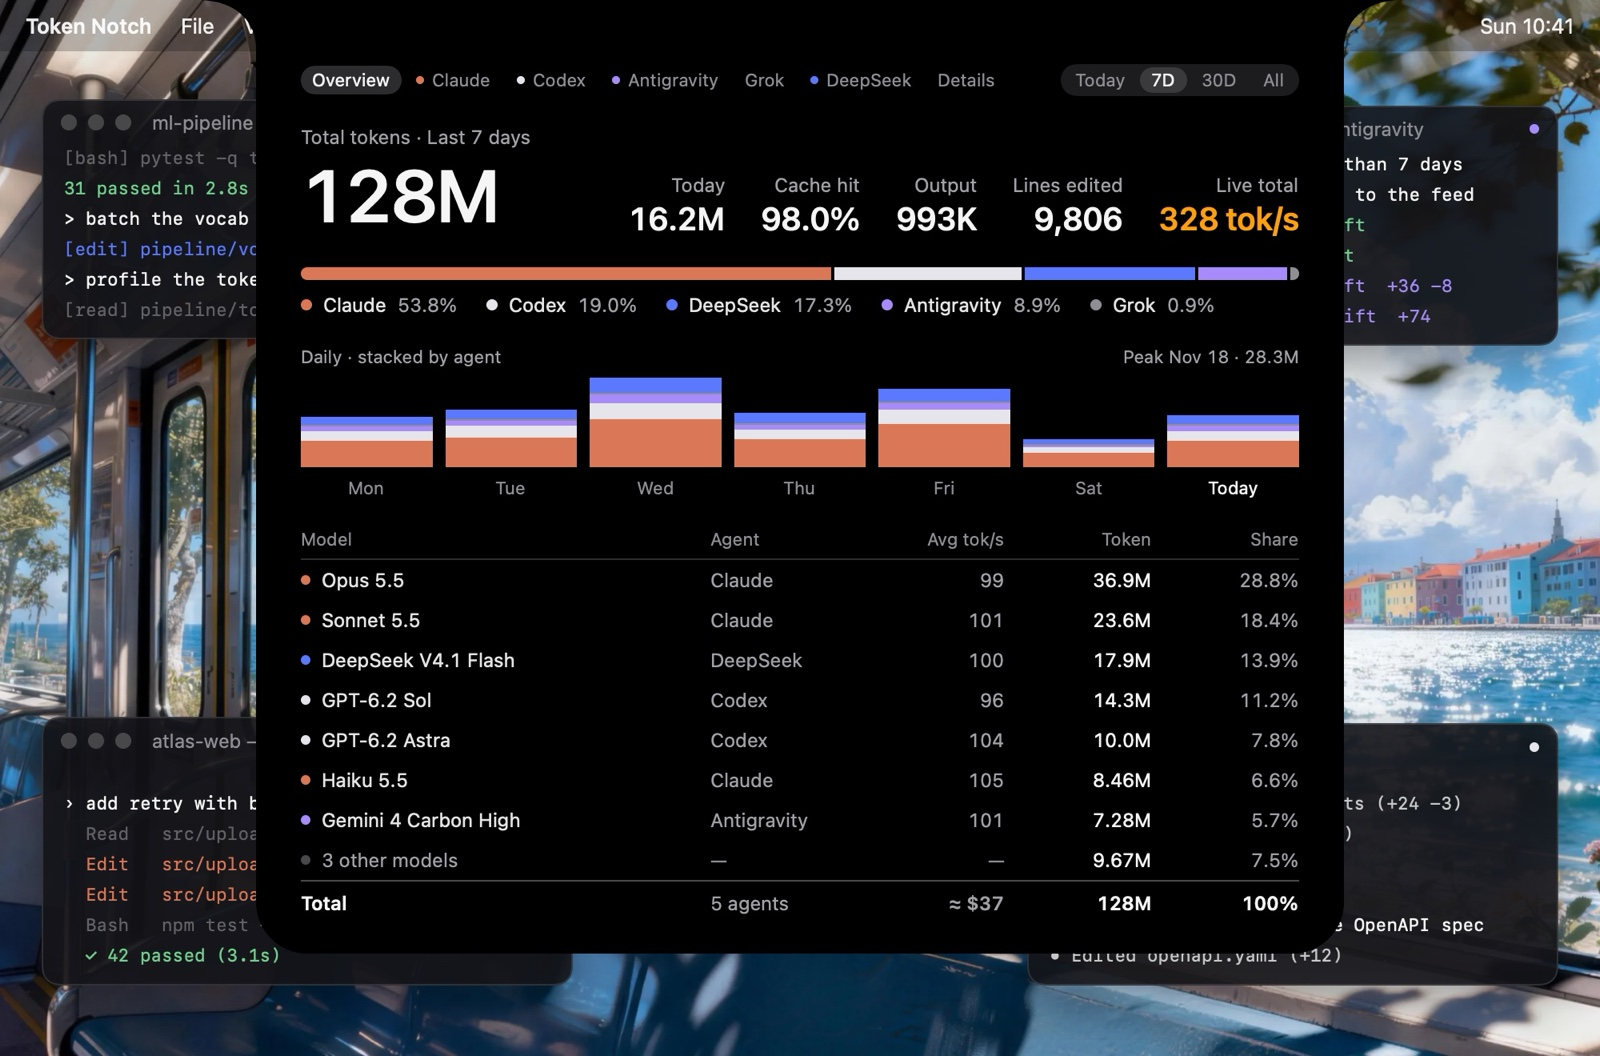
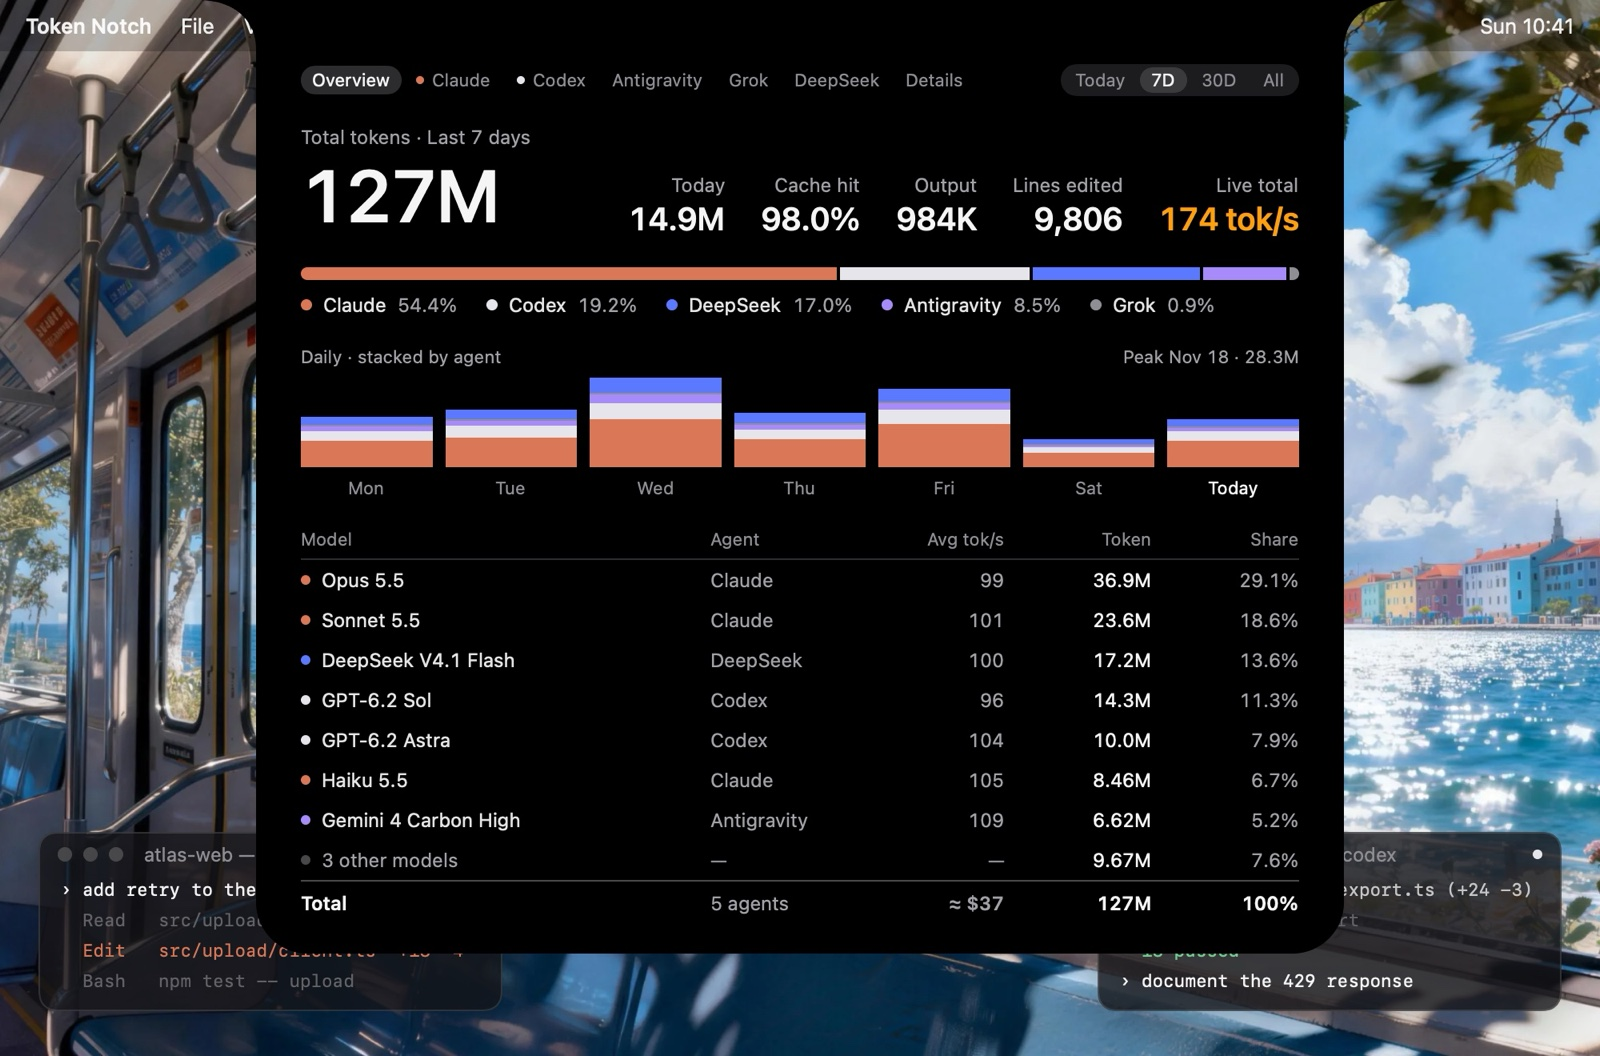
demo: agent 窗口收敛成底部两个小窗，GIF 画质拉满
四个窗口围着刘海，抢了主角的戏。

- 只留 Claude、Codex 两个窗口，贴在画面底部两角；缩小到 4 行、半透明、滚动放慢
- 演示数据和站点的在跑 agent 改回这两个，和窗口对应
- GIF 改成原生 2 倍分辨率（2000px 宽，不缩放）、30fps、256 色，逐帧图片的 JPEG 质量提到 0.98

diff --git a/Sources/TokenNotch/DemoDesktop.swift b/Sources/TokenNotch/DemoDesktop.swift
@@ -2,8 +2,8 @@ import AppKit
 import SwiftUI
 import TokenCore
 
-/// 演示画面里桌面上的几个 agent 窗口：让人一眼看出刘海里的数字是这些 agent 跑出来的。
-/// 窗口里的内容全是虚构的；每隔一小会儿往下滚一行。
+/// 演示画面里桌面上的 agent 窗口：交代一下刘海里的数字是哪来的。它们是背景，主角是刘海，
+/// 所以只有两个、个头小、半透明、滚得慢。窗口里的内容全是虚构的。
 @MainActor
 enum DemoDesktop {
     enum Tone { case prompt, dim, edit, ok, plain }
@@ -16,54 +16,32 @@ enum DemoDesktop {
         var lines: [(Tone, String)]
     }
 
-    static let visibleLines = 6
-    /// 每隔多久滚一行
-    static let stepEvery = 0.42
+    static let visibleLines = 4
+    /// 每隔多久滚一行。窗口只是背景，滚得慢一点，不和刘海抢注意力
+    static let stepEvery = 1.3
     /// 窗口四周留给阴影的边
-    static let margin: CGFloat = 34
+    static let margin: CGFloat = 30
 
+    /// 只放两个小窗口，贴在画面底部两角：正好是两翼轮播的那两个 agent。
     static let windows: [Window] = [
-        Window(title: "atlas-web — claude", agent: .claude, frame: CGRect(x: 26, y: 448, width: 332, height: 168), lines: [
-            (.prompt, "› add retry with backoff to the uploader"),
+        Window(title: "atlas-web — claude", agent: .claude, frame: CGRect(x: 24, y: 520, width: 290, height: 112), lines: [
+            (.prompt, "› add retry to the uploader"),
             (.dim, "  Read   src/upload/client.ts"),
             (.edit, "  Edit   src/upload/client.ts  +18 −4"),
-            (.edit, "  Edit   src/upload/retry.ts   +41"),
             (.dim, "  Bash   npm test -- upload"),
             (.ok, "  ✓ 42 passed (3.1s)"),
             (.prompt, "› now cover the timeout path"),
-            (.dim, "  Read   src/upload/retry.test.ts"),
-            (.edit, "  Edit   src/upload/retry.test.ts  +27 −2"),
+            (.edit, "  Edit   src/upload/retry.test.ts  +27"),
             (.ok, "  ✓ 45 passed (3.4s)"),
         ]),
-        Window(title: "api-gateway — codex", agent: .codex, frame: CGRect(x: 642, y: 452, width: 332, height: 164), lines: [
+        Window(title: "api-gateway — codex", agent: .codex, frame: CGRect(x: 686, y: 520, width: 290, height: 112), lines: [
             (.prompt, "› rate-limit the /export endpoint"),
             (.dim, "• Ran rg \"export\" src/routes"),
             (.plain, "• Edited src/routes/export.ts (+24 −3)"),
-            (.plain, "• Edited src/limits.ts (+31)"),
             (.dim, "• Ran pnpm test export"),
             (.ok, "  18 passed"),
-            (.prompt, "› add a 429 response to the OpenAPI spec"),
+            (.prompt, "› document the 429 response"),
             (.plain, "• Edited openapi.yaml (+12)"),
-        ]),
-        Window(title: "ml-pipeline — dsh", agent: .deepseek, frame: CGRect(x: 26, y: 62, width: 300, height: 150), lines: [
-            (.prompt, "> profile the tokenizer stage"),
-            (.dim, "[read] pipeline/tokenize.py"),
-            (.dim, "[bash] python -m cProfile -s cumtime"),
-            (.edit, "[edit] pipeline/tokenize.py +12 −9"),
-            (.dim, "[bash] pytest -q tests/tokenize"),
-            (.ok, "31 passed in 2.8s"),
-            (.prompt, "> batch the vocab lookups"),
-            (.edit, "[edit] pipeline/vocab.py +22 −15"),
-        ]),
-        Window(title: "ios-client — Antigravity", agent: .antigravity, frame: CGRect(x: 690, y: 66, width: 284, height: 150), lines: [
-            (.prompt, "Add an offline cache to the feed"),
-            (.ok, "✓ Read FeedStore.swift"),
-            (.ok, "✓ Read FeedView.swift"),
-            (.edit, "✓ Edit FeedStore.swift  +36 −8"),
-            (.edit, "✓ Write FeedCache.swift  +74"),
-            (.dim, "● Running xcodebuild test"),
-            (.ok, "✓ 23 tests passed"),
-            (.prompt, "Evict entries older than 7 days"),
         ]),
     ]
 
@@ -85,7 +63,7 @@ enum DemoDesktop {
         zip(windows, states).enumerated().compactMap { i, pair in
             let (w, images) = pair
             guard !images.isEmpty else { return nil }
-            let step = Int(t / stepEvery + Double(i) * 0.37) + visibleLines - 1 + i * 2
+            let step = Int(t / stepEvery + Double(i) * 0.5) + visibleLines - 1 + i * 2
             return (images[step % images.count], w.frame.insetBy(dx: -margin, dy: -margin))
         }
     }
@@ -98,13 +76,13 @@ private struct DemoWindowView: View {
     var body: some View {
         VStack(spacing: 0) {
             HStack(spacing: 7) {
-                ForEach(0..<3, id: \.self) { _ in Circle().fill(Palette.divider).frame(width: 10, height: 10) }
+                ForEach(0..<3, id: \.self) { _ in Circle().fill(Palette.divider).frame(width: 9, height: 9) }
                 Text(window.title).font(.system(size: 12)).foregroundStyle(Palette.text3).padding(.leading, 6)
                 Spacer()
                 Circle().fill(Palette.agent(window.agent)).frame(width: 6, height: 6)
             }
             .padding(.horizontal, 12)
-            .frame(height: 30)
+            .frame(height: 28)
             VStack(alignment: .leading, spacing: 5) {
                 ForEach(Array(lines.enumerated()), id: \.offset) { _, line in
                     Text(line.1)
@@ -118,9 +96,9 @@ private struct DemoWindowView: View {
             .frame(maxWidth: .infinity, maxHeight: .infinity, alignment: .bottomLeading)
         }
         .frame(width: window.frame.width, height: window.frame.height)
-        .background(RoundedRectangle(cornerRadius: 11, style: .continuous).fill(Color(red: 0.08, green: 0.08, blue: 0.095).opacity(0.9)))
+        .background(RoundedRectangle(cornerRadius: 11, style: .continuous).fill(Color(red: 0.08, green: 0.08, blue: 0.095).opacity(0.78)))
         .overlay(RoundedRectangle(cornerRadius: 11, style: .continuous).strokeBorder(Color.white.opacity(0.12), lineWidth: 1))
-        .shadow(color: .black.opacity(0.4), radius: 16, y: 10)
+        .shadow(color: .black.opacity(0.28), radius: 14, y: 8)
         .environment(\.colorScheme, .dark)
     }
 

diff --git a/site/app.js b/site/app.js
@@ -89,7 +89,7 @@ const AGENTS = [
 ];
 const AGENT = Object.fromEntries(AGENTS.map(a => [a.id, a]));
 const PROJECTS = ['atlas-web', 'token-notch', 'ml-pipeline', 'api-gateway', 'ios-client', 'docs-site', 'infra', 'design-tokens', 'billing-svc', 'cli-tools', 'landing'];
-const LIVE = { claude: 128, codex: 46, deepseek: 96, antigravity: 58 };
+const LIVE = { claude: 128, codex: 46 };
 const DAYS = 30;
 
 const days = (() => {
@@ -394,24 +394,17 @@ function scale() {
 }
 new ResizeObserver(scale).observe(wrap);
 
-// 桌面上的几个 agent 窗口（内容是虚构的），和演示视频里的一致。类名：u 提示、d 次要、e 编辑、g 通过、p 普通
+// 桌面底部两角的 agent 窗口（内容是虚构的），和演示视频里的一致；它们只是背景，所以小、淡、滚得慢。
+// 类名：u 提示、d 次要、e 编辑、g 通过、p 普通
 const TERMS = [
-  { id: 'claude', title: 'atlas-web — claude', keep: 6, lines: [
-    ['u', '› add retry with backoff to the uploader'], ['d', '  Read   src/upload/client.ts'], ['e', '  Edit   src/upload/client.ts  +18 −4'],
-    ['e', '  Edit   src/upload/retry.ts   +41'], ['d', '  Bash   npm test -- upload'], ['g', '  ✓ 42 passed (3.1s)'],
-    ['u', '› now cover the timeout path'], ['d', '  Read   src/upload/retry.test.ts'], ['e', '  Edit   src/upload/retry.test.ts  +27 −2'], ['g', '  ✓ 45 passed (3.4s)']] },
-  { id: 'codex', title: 'api-gateway — codex', keep: 5, lines: [
+  { id: 'claude', title: 'atlas-web — claude', keep: 4, lines: [
+    ['u', '› add retry to the uploader'], ['d', '  Read   src/upload/client.ts'], ['e', '  Edit   src/upload/client.ts  +18 −4'],
+    ['d', '  Bash   npm test -- upload'], ['g', '  ✓ 42 passed (3.1s)'],
+    ['u', '› now cover the timeout path'], ['e', '  Edit   src/upload/retry.test.ts  +27'], ['g', '  ✓ 45 passed (3.4s)']] },
+  { id: 'codex', title: 'api-gateway — codex', keep: 4, lines: [
     ['u', '› rate-limit the /export endpoint'], ['d', '• Ran rg "export" src/routes'], ['p', '• Edited src/routes/export.ts (+24 −3)'],
-    ['p', '• Edited src/limits.ts (+31)'], ['d', '• Ran pnpm test export'], ['g', '  18 passed'],
-    ['u', '› add a 429 response to the OpenAPI spec'], ['p', '• Edited openapi.yaml (+12)']] },
-  { id: 'deepseek', title: 'ml-pipeline — dsh', keep: 5, lines: [
-    ['u', '> profile the tokenizer stage'], ['d', '[read] pipeline/tokenize.py'], ['d', '[bash] python -m cProfile -s cumtime'],
-    ['e', '[edit] pipeline/tokenize.py +12 −9'], ['d', '[bash] pytest -q tests/tokenize'], ['g', '31 passed in 2.8s'],
-    ['u', '> batch the vocab lookups'], ['e', '[edit] pipeline/vocab.py +22 −15']] },
-  { id: 'antigravity', title: 'ios-client — Antigravity', keep: 5, lines: [
-    ['u', 'Add an offline cache to the feed'], ['g', '✓ Read FeedStore.swift'], ['g', '✓ Read FeedView.swift'],
-    ['e', '✓ Edit FeedStore.swift  +36 −8'], ['e', '✓ Write FeedCache.swift  +74'], ['d', '● Running xcodebuild test'],
-    ['g', '✓ 23 tests passed'], ['u', 'Evict entries older than 7 days']] },
+    ['d', '• Ran pnpm test export'], ['g', '  18 passed'],
+    ['u', '› document the 429 response'], ['p', '• Edited openapi.yaml (+12)']] },
 ];
 const desk = $('#desk');
 TERMS.forEach((w, i) => {
@@ -430,7 +423,7 @@ TERMS.forEach((w, i) => {
   };
   for (let k = 0; k < w.keep; k++) push();
   // 几个窗口错开滚动
-  setTimeout(() => setInterval(() => { if (!document.hidden && heroVisible) push(); }, 900), i * 230);
+  setTimeout(() => setInterval(() => { if (!document.hidden && heroVisible) push(); }, 1700), i * 850);
 });
 
 // ---------------------------------------------------------------- 语言

diff --git a/site/styles.css b/site/styles.css
@@ -97,22 +97,20 @@ h1 { margin: 0; font-size: clamp(44px, 7.4vw, 92px); line-height: 1; font-weight
 .mb-left b { font-weight: 600; }
 
 .term {
-  position: absolute; width: 390px;
-  border-radius: 12px; overflow: hidden;
-  background: rgba(22, 22, 26, .78); backdrop-filter: blur(22px) saturate(1.4); -webkit-backdrop-filter: blur(22px) saturate(1.4);
-  box-shadow: 0 24px 60px rgba(0, 0, 0, .4), 0 0 0 1px rgba(255, 255, 255, .1) inset;
-  font-family: var(--mono); font-size: 11.5px;
+  position: absolute; bottom: 36px; width: 330px;
+  border-radius: 11px; overflow: hidden; opacity: .92;
+  background: rgba(22, 22, 26, .62); backdrop-filter: blur(22px) saturate(1.3); -webkit-backdrop-filter: blur(22px) saturate(1.3);
+  box-shadow: 0 16px 40px rgba(0, 0, 0, .28), 0 0 0 1px rgba(255, 255, 255, .09) inset;
+  font-family: var(--mono); font-size: 11px;
 }
-.t-claude { left: 40px; bottom: 44px; width: 400px; }
-.t-codex { right: 40px; bottom: 44px; }
-.t-deepseek { left: 40px; top: 66px; width: 350px; }
-.t-antigravity { right: 40px; top: 66px; width: 330px; }
-.term-bar { display: flex; align-items: center; gap: 7px; height: 30px; padding: 0 12px; color: #8e8e93; }
-.term-bar i { width: 11px; height: 11px; border-radius: 50%; background: #48484a; }
-.term-bar span { margin-left: 8px; font-family: var(--sans); font-size: 12px; }
+.t-claude { left: 36px; }
+.t-codex { right: 36px; }
+.term-bar { display: flex; align-items: center; gap: 6px; height: 28px; padding: 0 12px; color: #8e8e93; }
+.term-bar i { width: 9px; height: 9px; border-radius: 50%; background: #48484a; }
+.term-bar span { margin-left: 8px; font-family: var(--sans); font-size: 11.5px; }
 .term-bar b { margin-left: auto; width: 6px; height: 6px; border-radius: 50%; background: var(--c); }
-.term-body { padding: 4px 14px 12px; display: flex; flex-direction: column; justify-content: flex-end; gap: 5px; color: #c7c7cc; overflow: hidden; }
-.term-body div { white-space: nowrap; animation: line .3s ease-out both; }
+.term-body { padding: 2px 14px 11px; display: flex; flex-direction: column; justify-content: flex-end; gap: 5px; color: #c7c7cc; overflow: hidden; }
+.term-body div { white-space: nowrap; animation: line .5s ease-out both; }
 .term-body .u { color: #f5f5f7; }
 .term-body .g { color: #6fcf8e; }
 .term-body .e { color: var(--c); }

diff --git a/Sources/TokenCore/DemoData.swift b/Sources/TokenCore/DemoData.swift
@@ -77,9 +77,8 @@ public enum DemoData {
                 }
             }
         }
-        // 最近几十秒内的响应：让这几个 agent 显示为“正在运行”，并有实时 tok/s
-        for (agent, model, tps) in [(Agent.claude, "claude-opus-5-5", 128.0), (.codex, "gpt-6.2-sol", 46.0),
-                                    (.deepseek, "deepseek-v4.1-flash", 96.0), (.antigravity, "gemini-4-carbon-high", 58.0)] {
+        // 最近几十秒内的响应：让 Claude 和 Codex 显示为“正在运行”，并有实时 tok/s
+        for (agent, model, tps) in [(Agent.claude, "claude-opus-5-5", 128.0), (.codex, "gpt-6.2-sol", 46.0)] {
             for k in 0..<4 {
                 let output: Int64 = 900 + Int64(k) * 150
                 events.append(UsageEvent(

diff --git a/Sources/TokenNotch/DemoVideo.swift b/Sources/TokenNotch/DemoVideo.swift
@@ -288,7 +288,7 @@ enum DemoVideo {
 
     static func write(_ img: CGImage, to path: String, jpeg: Bool) {
         let rep = NSBitmapImageRep(cgImage: img)
-        let data = jpeg ? rep.representation(using: .jpeg, properties: [.compressionFactor: 0.92])
+        let data = jpeg ? rep.representation(using: .jpeg, properties: [.compressionFactor: 0.98])
                         : rep.representation(using: .png, properties: [:])
         try? data?.write(to: URL(fileURLWithPath: path))
     }

diff --git a/site/index.html b/site/index.html
@@ -13,7 +13,7 @@
 <meta name="theme-color" content="#f6f5f2">
 <link rel="icon" type="image/png" href="assets/logo.png">
 <link rel="preload" as="image" href="assets/wallpaper.webp" media="(min-width: 700px)">
-<link rel="stylesheet" href="styles.css?v=8">
+<link rel="stylesheet" href="styles.css?v=9">
 </head>
 <body>
 
@@ -163,6 +163,6 @@
   </span>
 </footer>
 
-<script src="app.js?v=8" defer></script>
+<script src="app.js?v=9" defer></script>
 </body>
 </html>
